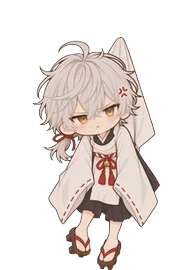
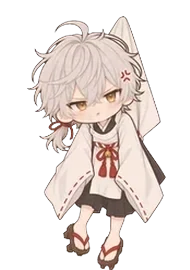
Add files via upload

Changed region(s): [[0.1316, 0.0593, 0.8684, 1.0]]

diff --git a/eu.js b/eu.js
@@ -147,7 +147,7 @@
  mkWalker({id:'eu-me',pre:'me_',heart:true,ax:.5,ay:.06,spd:1,
   lines:{zh:['嗨～歡迎光臨！','慢慢逛喔～','要不要玩章魚燒？','今天也辛苦了～','我在散步～','AI 聊天真的很好玩！'],en:['Hi, welcome!','Take your time~','Try Takoyaki House?','You did great today~','Just taking a stroll~','AI chat is so much fun!']},
   hold:{zh:['哇啊啊！','放我下來～','好、好高喔！','咦咦咦？！'],en:['Whoa!','Put me down~','So high!','Eek?!']}});
- mkWalker({id:'eu-rin',pre:'rin_',heart:false,ax:.63,ay:.15,spd:1.12,
+ mkWalker({id:'eu-rin',pre:'rin_',heart:false,ax:.64,ay:.07,spd:1.12,
   lines:{zh:['你的願望本大神收下了！','又來啦？嘿嘿','別忘了本大神喔','快來找本大神許願～','神明也是會無聊的嘛','本大神才沒有在等你'],en:['Your wish? Received!','Back again? Heh','Don\'t forget me','Come make a wish~','Even gods get bored','I wasn\'t waiting for you or anything']},
   hold:{zh:['喂！放本大神下來！','本大神可是神耶！','……不爽。','你當本大神是貓喔？'],en:['Hey! Put me down!','I\'m a god, you know!','...Hmph.','Am I a cat to you?']}});
  var a=new Audio();a.loop=true;a.volume=0.2;

diff --git a/eu.css b/eu.css
@@ -159,7 +159,7 @@ html.eu-seen .eu .ttl .dd{animation:eu-bob 3.2s ease-in-out infinite}
 @media (max-width:600px){.eu-wk{width:82px;height:100px}}
 #eu-rin{width:95px;height:135px}
 @media (max-width:600px){#eu-rin{width:73px;height:104px}}
-#eu-rin.held .fr{transform-origin:63% 15%}
+#eu-rin.held .fr{transform-origin:64% 7%}
 .eu-wk.held{cursor:grabbing}
 .eu-wk.held .fr{transform-origin:50% 8%;animation:eu-dangle 1.1s ease-in-out infinite}
 @keyframes eu-dangle{0%,100%{transform:rotate(-7deg)}50%{transform:rotate(7deg)}}
